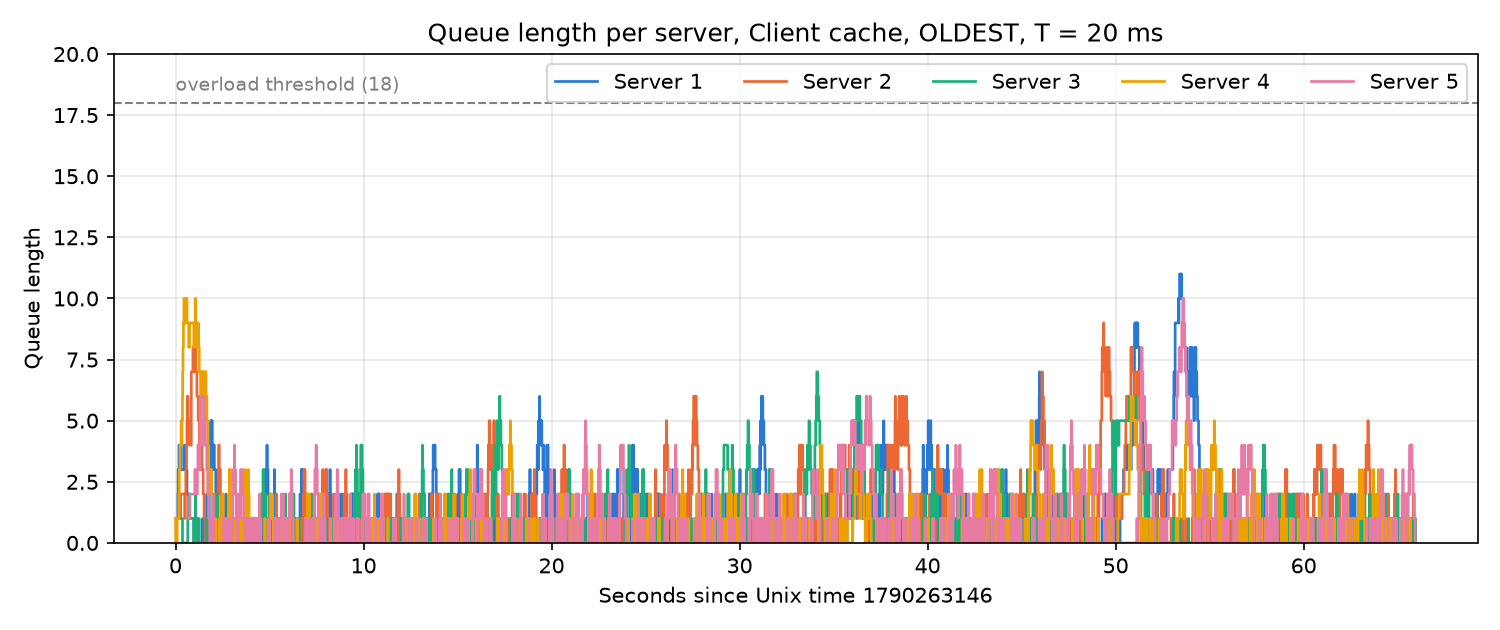
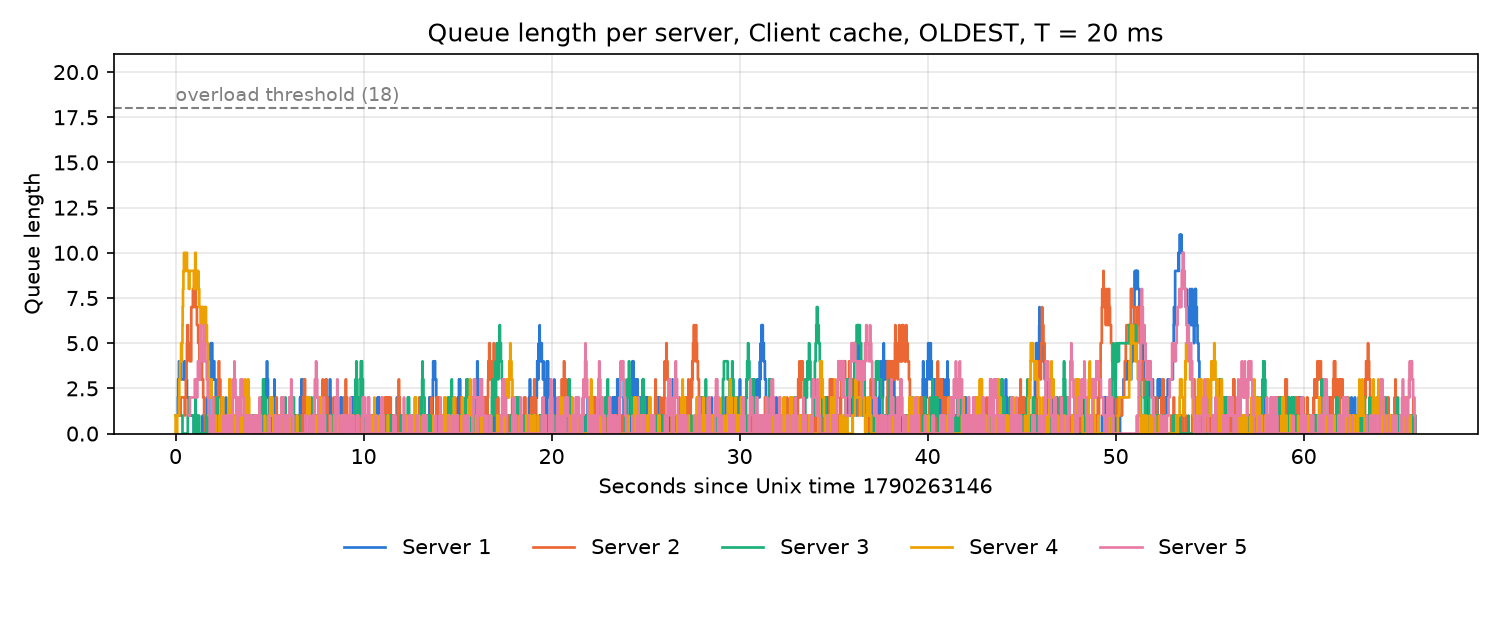
Feature:update script for better graphs

diff --git a/plot_graphs.py b/plot_graphs.py
@@ -50,22 +50,49 @@ def read_queue(path):
     return times, lengths
 
 
+def round_up(value, step=100):
+    return int((value // step + 1) * step)
+
+
+def binned_median(times, size=50):
+    """Median of every `size` queries"""
+    centres, medians = [], []
+    for start in range(0, len(times), size):
+        chunk = sorted(times[start:start + size])
+        if chunk:
+            centres.append(start + len(chunk) / 2)
+            medians.append(chunk[len(chunk) // 2])
+    return centres, medians
+
+
 def turnaround_graph(interval):
     # One panel per configuration. All five on the same axes is unreadable.
-    figure, axes = plt.subplots(len(RUNS), 1, sharex=True, sharey=True,
-                                figsize=(10, 10))
+    runs = [(c, r, l, read_turnaround(RESULTS / f"{r}_T{interval}"))
+            for c, (r, l) in zip(COLORS, RUNS)]
 
-    for axis, color, (run, label) in zip(axes, COLORS, RUNS):
-        times = read_turnaround(RESULTS / f"{run}_T{interval}")
-        if times:
-            axis.plot(range(1, len(times) + 1), times, color=color, linewidth=0.4)
-        axis.set_title(label, fontsize=10, loc="left")
+    everything = sorted(t for _, _, _, times in runs for t in times)
+    top = round_up(everything[int(len(everything) * 0.99)])
+
+    figure, axes = plt.subplots(len(runs), 1, sharex=True, sharey=True,
+                                figsize=(10, 11))
+
+    for axis, (color, run, label, times) in zip(axes, runs):
+        x = range(1, len(times) + 1)
+        axis.scatter(x, times, s=2, color=color, alpha=0.3, linewidths=0)
+        bx, by = binned_median(times)
+        axis.plot(bx, by, color=color, linewidth=1.8)
+
+        above = sum(1 for t in times if t > top)
+        note = f"   ({above} above the axis)" if above else ""
+        axis.set_title(label + note, fontsize=10, loc="left")
         axis.set_ylabel("ms")
         axis.grid(alpha=0.3)
 
     axes[-1].set_xlabel("Query number")
-    axes[0].set_ylim(bottom=0)
-    figure.suptitle(f"Turn-around time per query, T = {interval} ms")
+    axes[0].set_ylim(0, top)
+    figure.suptitle(f"Turn-around time per query, T = {interval} ms"
+                    "\ndots: individual queries, line: median of every 50",
+                    fontsize=12)
     figure.tight_layout()
     figure.savefig(GRAPHS / f"turnaround_T{interval}.png", dpi=150)
     plt.close(figure)
@@ -95,14 +122,16 @@ def queue_graph(run, label, interval):
                  color=color, linewidth=1.3, label=f"Server {zone}")
 
     plt.axhline(18, color="gray", linestyle="--", linewidth=1)
-    plt.text(0, 18.5, "overload threshold (18)", color="gray", fontsize=9)
+    plt.text(0, 18.4, "overload threshold (18)", color="gray", fontsize=9)
 
     plt.xlabel(f"Seconds since Unix time {start // 1000}")
     plt.ylabel("Queue length")
     plt.title(f"Queue length per server, {label}, T = {interval} ms")
-    plt.legend(ncol=5)
+    # Outside the axes, so it never sits on top of the data.
+    plt.legend(ncol=5, loc="lower center", bbox_to_anchor=(0.5, -0.38),
+               frameon=False)
     plt.grid(alpha=0.3)
-    plt.ylim(bottom=0, top=20)
+    plt.ylim(bottom=0, top=21)
     plt.tight_layout()
     plt.savefig(GRAPHS / f"queue_{run}_T{interval}.png", dpi=150)
     plt.close()
